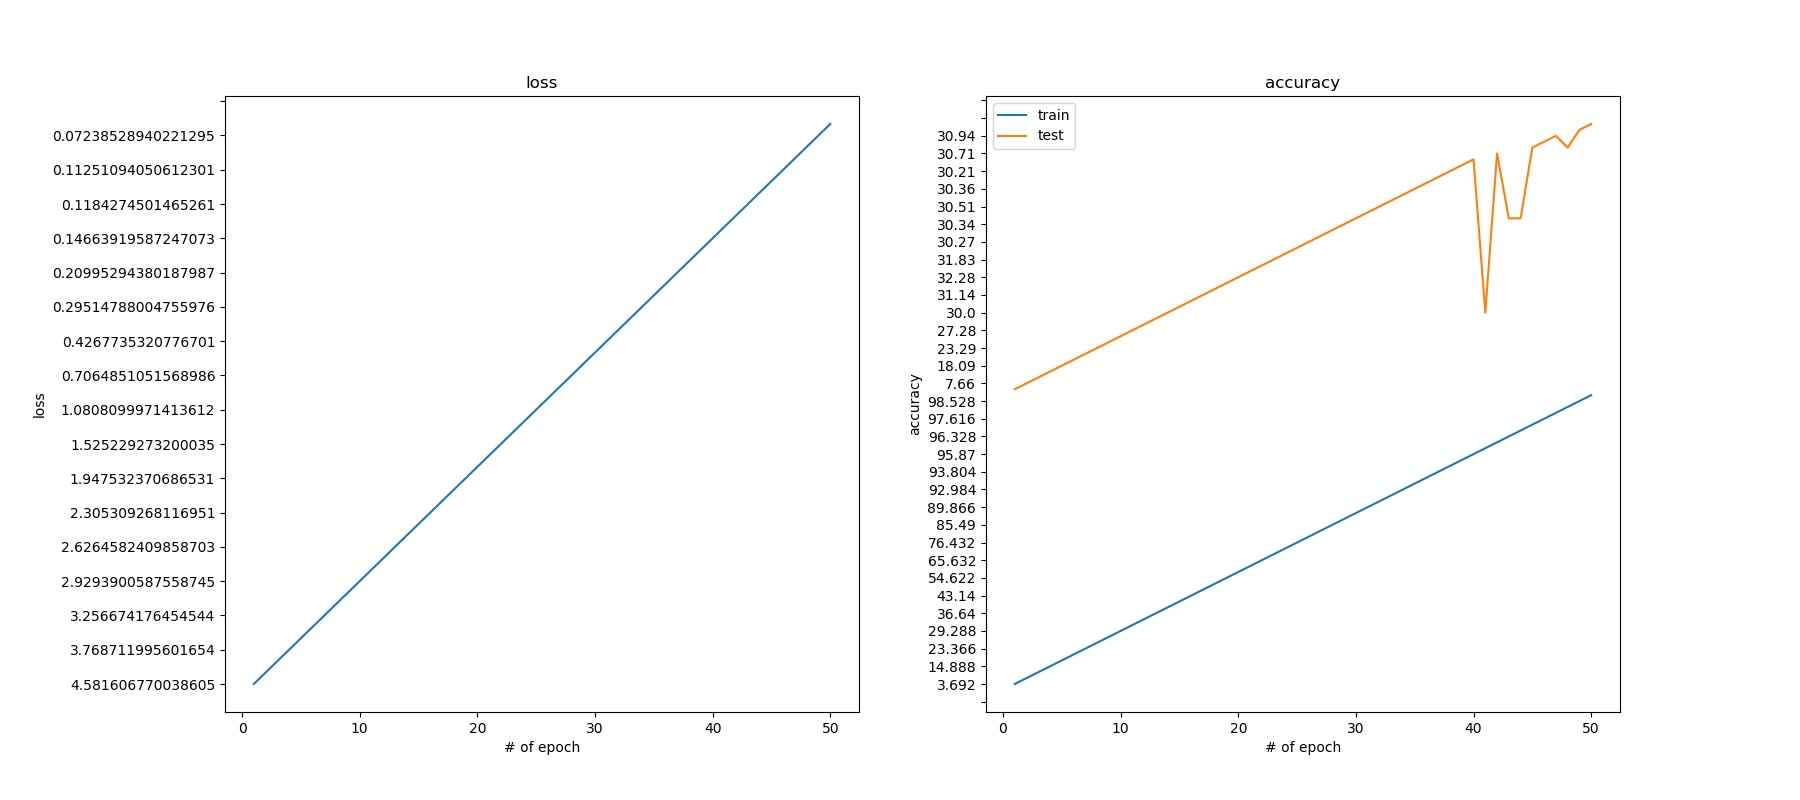
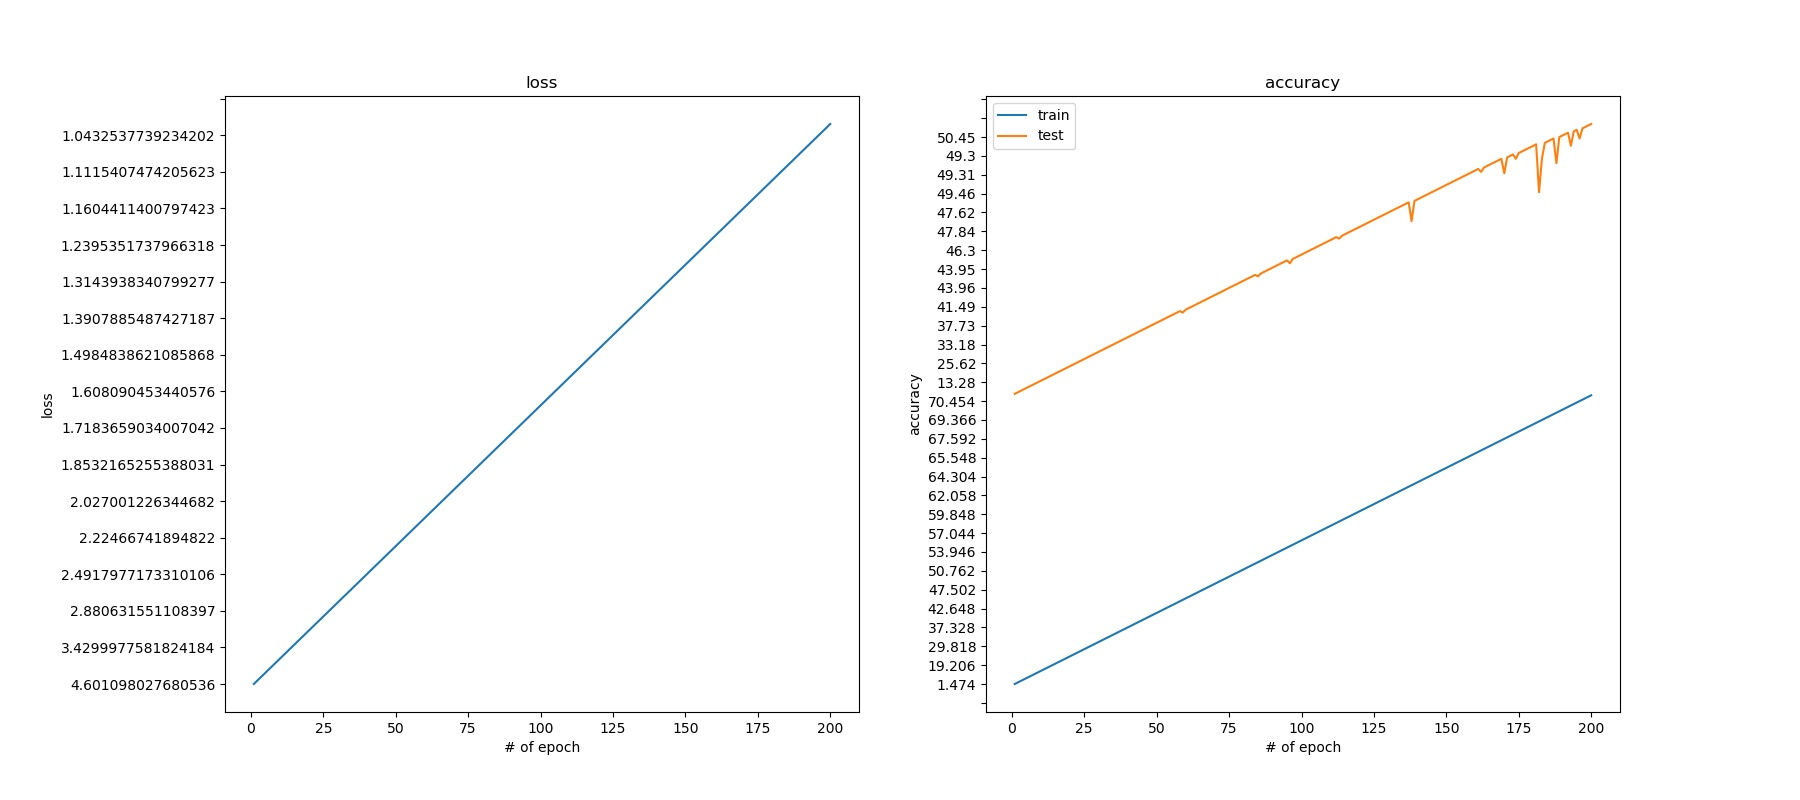
49 accuracy

diff --git a/cifar_100.py b/cifar_100.py
@@ -132,40 +132,40 @@ class Net(nn.Module):
         super(Net, self).__init__()
         # 3 input image channel, 6 output channels
         # 3x3 square convolution kernel
-        self.conv1 = nn.Conv2d(3, 23, 5)
-        self.conv2 = nn.Conv2d(23, 35, 5)
-        self.conv3 = nn.Conv2d(35, 56, 5)
+        self.conv1 = nn.Conv2d(3, 64, 3)
+        self.conv2 = nn.Conv2d(64, 128, 3)
+        self.conv3 = nn.Conv2d(128, 256, 3)
         self.pool = nn.MaxPool2d(2, 2)
         # an affine operation: y = Wx + b
-        self.fc1 = nn.Linear(56 * 4 * 4, 800)
-        self.fc2 = nn.Linear(800, 600)
-        self.fc3 = nn.Linear(600, 400)
-        self.fc4 = nn.Linear(400, 200)
-        self.fc5 = nn.Linear(200, 100)
-        self.relu = nn.ELU()
+        self.fc1 = nn.Linear(1024, 256)
+        self.fc2 = nn.Linear(256, 100)
+        # self.fc3 = nn.Linear(600, 400)
+        # self.fc4 = nn.Linear(400, 200)
+        # self.fc5 = nn.Linear(200, 100)
+        self.relu = nn.ReLU()
 
     def forward(self, x):
-        x = self.relu(self.conv1(x))
+        x = self.pool(self.relu(self.conv1(x)))
         x = self.pool(self.relu(self.conv2(x)))
         x = self.pool(self.relu(self.conv3(x)))
-        x = x.view(-1, 56 * 4 * 4)
+        x = x.view(-1, 1024)
         x = self.relu(self.fc1(x))
-        x = self.relu(self.fc2(x))
-        x = self.relu(self.fc3(x))
-        x = self.relu(self.fc4(x))
-        x = self.fc5(x)
+        # x = self.relu(self.fc2(x))
+        # x = self.relu(self.fc3(x))
+        # x = self.relu(self.fc4(x))
+        x = self.fc2(x)
         return x
 
 
 if __name__ == "__main__":
-    num_epochs = 50  # number of times which the entire dataset is passed throughout the model
-    batch_size = 50  # the size of input data took for one iteration
+    num_epochs = 200  # number of times which the entire dataset is passed throughout the model
+    batch_size = 128  # the size of input data took for one iteration
 
     transform = transforms.Compose(
-        [  # transforms.RandomCrop(32, padding=4),  # 先四周填充0，在吧图像随机裁剪成32*32
-            # transforms.RandomHorizontalFlip(),  # 图像一半的概率翻转，一半的概率不翻转
-            transforms.ToTensor(),
-            transforms.Normalize((0.5071, 0.4867, 0.4408), (0.2675, 0.2565, 0.2761))])
+        [transforms.RandomCrop(32, padding=4),  # 先四周填充0，在吧图像随机裁剪成32*32
+         transforms.RandomHorizontalFlip(),  # 图像一半的概率翻转，一半的概率不翻转
+         transforms.ToTensor(),
+         transforms.Normalize((0.5071, 0.4867, 0.4408), (0.2675, 0.2565, 0.2761))])
     trainset = torchvision.datasets.CIFAR100(root='./data', train=True,
                                              download=True, transform=transform)
     trainloader = torch.utils.data.DataLoader(trainset, batch_size=batch_size,
@@ -188,6 +188,6 @@ if __name__ == "__main__":
 
     train("train test")
 
-    # train_correctness = check_correctness(trainloader)
-    # test_correctness = check_correctness(testloader)
+    train_correctness = check_correctness(trainloader)
+    test_correctness = check_correctness(testloader)
     # save_model()

diff --git a/graph/graph.py b/graph/graph.py
@@ -18,7 +18,7 @@ for i in data[1:]:
 
 plt.figure(figsize=(18, 8))
 plt.figure(1)
-y_major_locator = MultipleLocator(3)
+y_major_locator = MultipleLocator(len(x)//15)
 
 ax1 = plt.subplot(121)
 plt.plot(x, y1)
